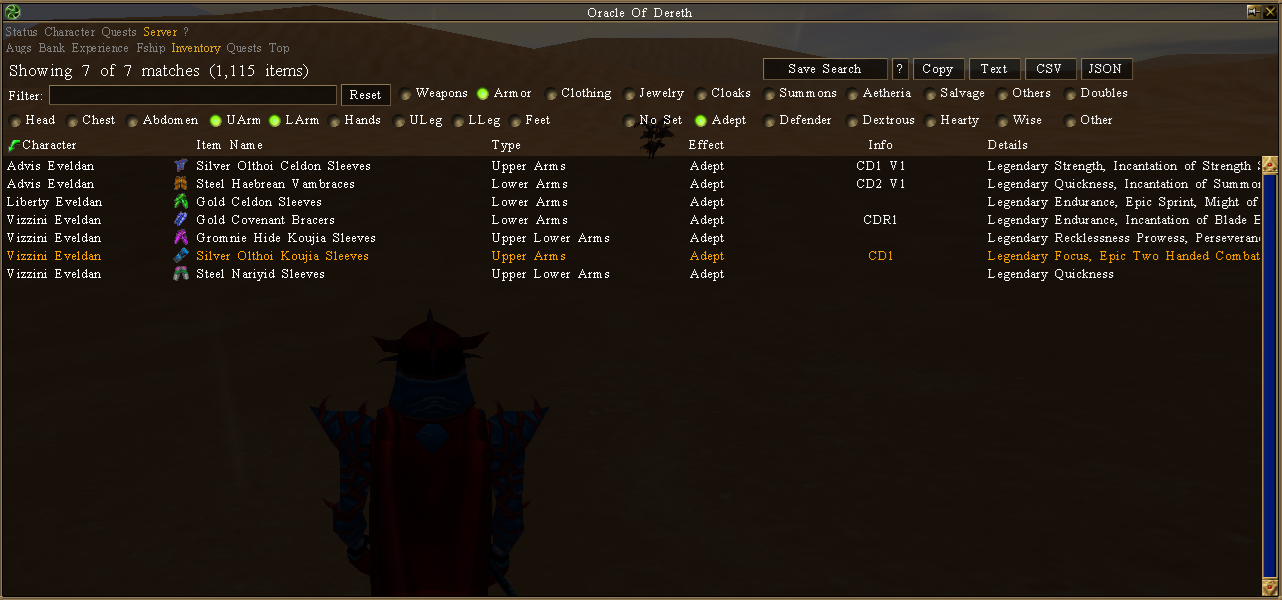
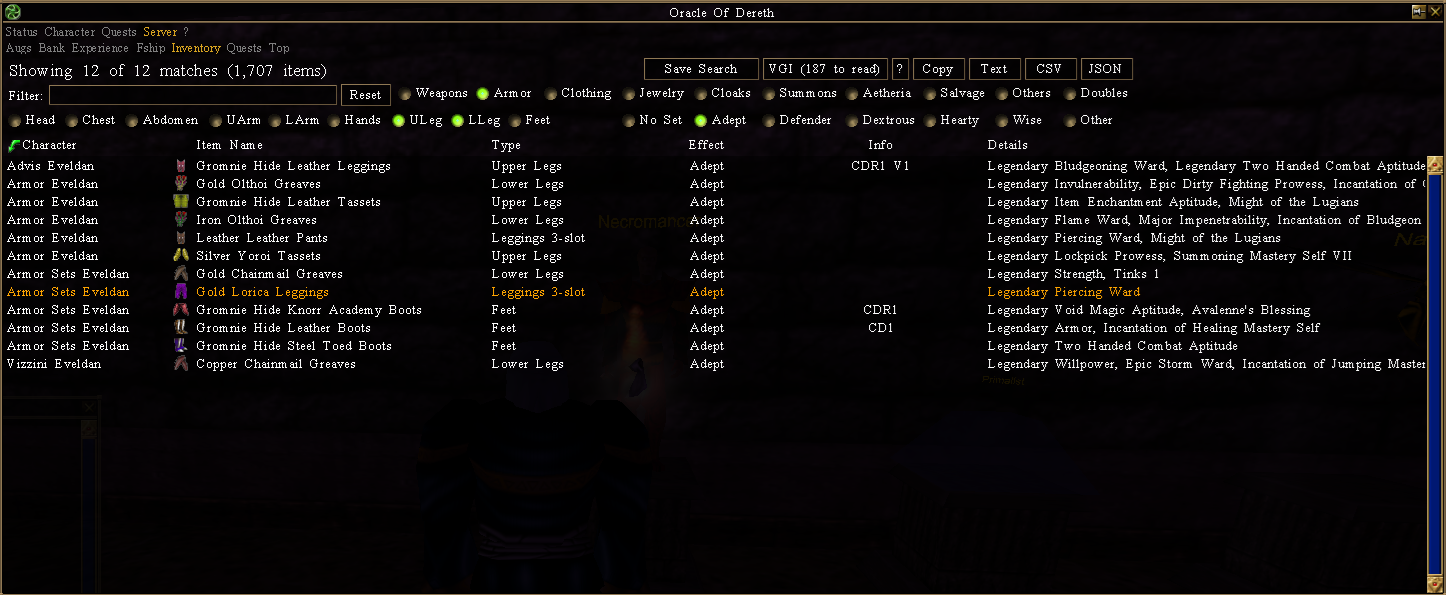
Read window title not dll

diff --git a/OracleOfDereth/Models/VGInventoryTracking.cs b/OracleOfDereth/Models/VGInventoryTracking.cs
@@ -23,10 +23,6 @@ namespace OracleOfDereth
         private const BindingFlags StaticMembers = BindingFlags.Public | BindingFlags.NonPublic | BindingFlags.Static;
 
         private enum Result { Waiting, AlreadyEnabled, Requested, Enabled, Unsupported }
-        private static Assembly viewAssembly;
-        private static FieldInfo viewWrapperField;
-        private static Type viewWrapperType;
-        private static FieldInfo hudViewField;
 
         public static bool ToggleView()
         {
@@ -39,7 +35,7 @@ namespace OracleOfDereth
         public static string OpenButtonText()
         {
             // Mirror VGI's own pending-ID title, including while its window is hidden.
-            // Missing or unsupported versions leave the ordinary Open VGI label.
+            // If the VGI window is unavailable, keep the ordinary Open VGI label.
             try
             {
                 string title = GetView()?.Title;
@@ -54,28 +50,18 @@ namespace OracleOfDereth
 
         private static VirindiViewService.HudView GetView()
         {
-            Assembly assembly = LoadedAssemblies.Find("VirindiGlobalInventory");
-            if (assembly == null) return null;
-            if (viewAssembly != assembly)
+            // VVS exposes live views, including hidden windows. Resolve the current
+            // window so character changes cannot leave us holding a disposed view.
+            // No VGI assembly lookup or obfuscated member names are needed here.
+            foreach (var hud in VirindiViewService.HudView.GetAllViews())
             {
-                viewAssembly = assembly;
-                string viewName = IntegrationTypes(assembly.GetName().Version).View;
-                viewWrapperField = viewName == null ? null : assembly.GetType(viewName)?.GetField("c", StaticMembers);
-                viewWrapperType = null;
-                hudViewField = null;
+                string title = hud.Title;
+                if (title == "Virindi Global Inventory" ||
+                    (title != null && title.StartsWith("Virindi Global Inventory (", StringComparison.Ordinal)
+                        && title.EndsWith(" to read)", StringComparison.Ordinal)))
+                    return hud;
             }
-            // VGI owns a view wrapper in static field c. Read its current HudView
-            // so visibility and status follow the window across character changes.
-            object wrapper = viewWrapperField?.GetValue(null);
-            if (wrapper == null) return null;
-            if (viewWrapperType != wrapper.GetType())
-            {
-                viewWrapperType = wrapper.GetType();
-                var fields = viewWrapperType.GetFields(BindingFlags.Instance | BindingFlags.Public | BindingFlags.NonPublic)
-                    .Where(f => f.FieldType == typeof(VirindiViewService.HudView)).ToArray();
-                hudViewField = fields.Length == 1 ? fields[0] : null;
-            }
-            return hudViewField?.GetValue(wrapper) as VirindiViewService.HudView;
+            return null;
         }
 
         public static void Init()
